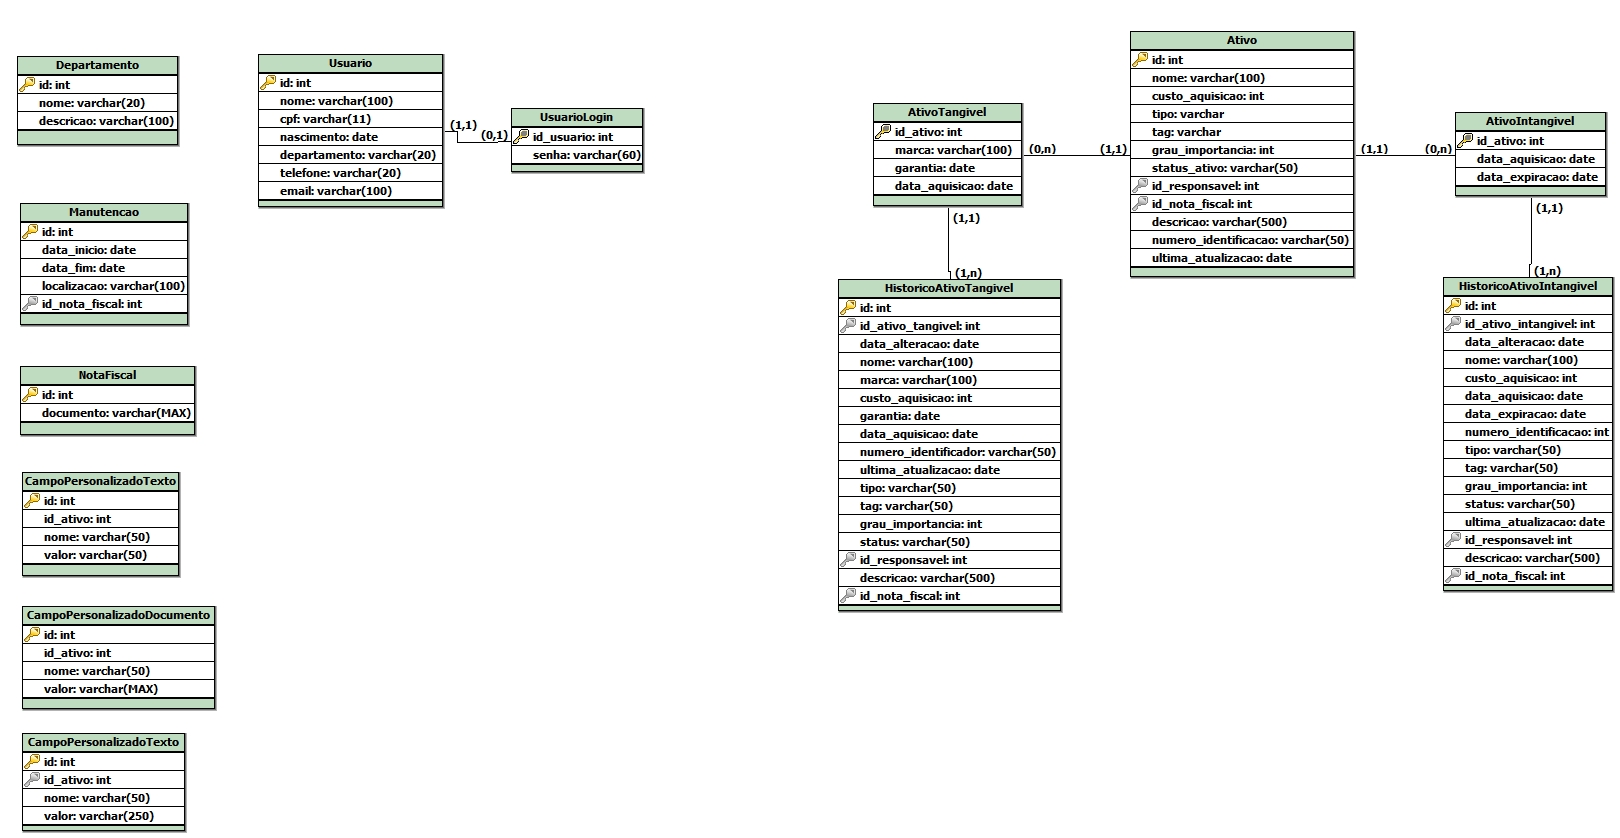
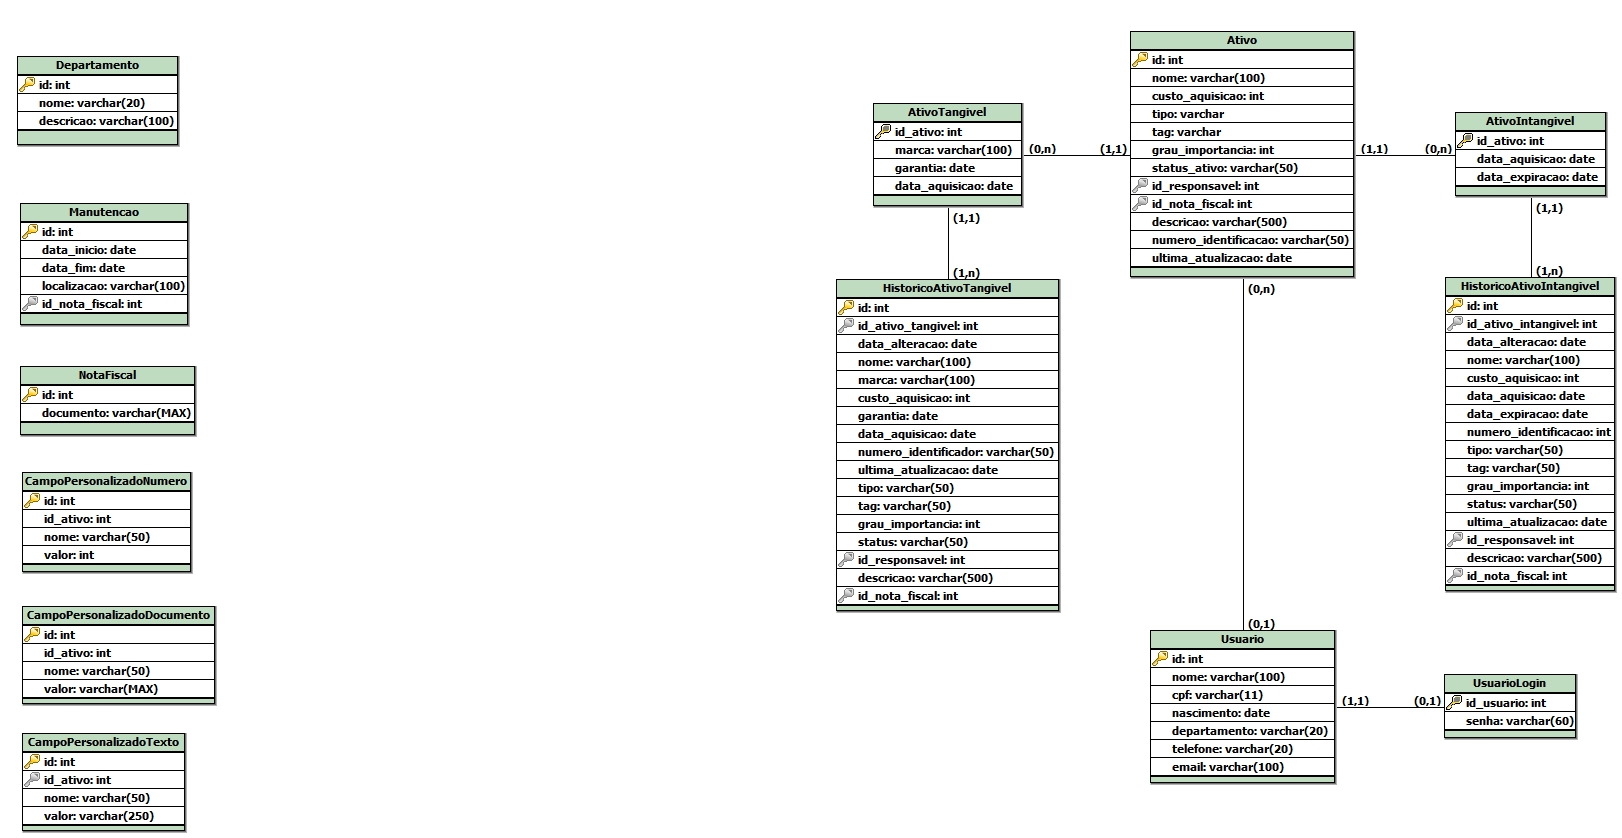
Documentação

diff --git a/README.md b/README.md
@@ -5,4 +5,51 @@ Referente ao Banco de Dados da API do terceiro semestre da FATEC
 
 * `./modelo` - Arquivos do modelo de dados
 * `./sql` - Arquivos .SQL com o código do banco
+    * `/functions` - Arquivos .SQL com as funções do banco
+    * `/procedures` - Arquivos .SQL com as procedures do banco
     * `/tables` - Arquivos .SQL para a criação das tabelas
+    * `/triggers` - Arquivos .SQL com os triggers do banco
+
+# Dicionário de Dados
+
+<details>
+<summary>Ativo</summary>
+
+| Colunas | Tipo de dados | Comprimento | Restrições | Valor padrão | Descrição |
+|:-:|:-:|:-:|:-:|:-:|:-:|
+| id | INT | Default | PK, NOT NULL | auto_increment | Número de identificação do ativo |
+| nome | VARCHAR | 100 | NOT NULL | N/A | Nome do ativo |
+| custo_aquisicao | INT | Default | N/A | N/A | Custo da aquisição do ativo |
+| tipo | VARCHAR | 20 | NOT NULL | N/A | Tipo do ativo |
+| tag | VARCHAR | 20 | NOT NULL | N/A | Tag do ativo |
+| grau_importancia | INT | Default | N/A | N/A | Grau de importância do ativo |
+| status_ativo | VARCHAR | 50 | N/A | N/A | Status do ativo |
+| id_responsavel | INT | Default | FK | N/A | Id do usuário responsável pelo ativo |
+| id_nota_fiscal | INT | Default | FK | N/A | Id da nota fiscal do ativo |
+| descricao | VARCHAR | 500 | N/A | N/A | Descrição do ativo |
+| ultima_atualizacao | DATE | Default | N/A | N/A | Última data em que o ativo foi atualizado |
+
+</details>
+
+<details>
+<summary>AtivoTangivel</summary>
+
+| Colunas | Tipo de dados | Comprimento | Restrições | Valor padrão | Descrição |
+|:-:|:-:|:-:|:-:|:-:|:-:|
+| id_ativo | INT | Default | PK, FK, NOT NULL | N/A | Número de identificação do ativo |
+| marca | VARCHAR | 100 | N/A | N/A | Marca do ativo |
+| garantia | DATE | Default | N/A | N/A | Data de expiração da garantia do ativo |
+| data_aquisicao | DATE | Default | N/A | N/A | Data de aquisição do ativo |
+
+</details>
+
+<details>
+<summary>AtivoIntangivel</summary>
+
+| Colunas | Tipo de dados | Comprimento | Restrições | Valor padrão | Descrição |
+|:-:|:-:|:-:|:-:|:-:|:-:|
+| id_ativo | INT | Default | PK, FK, NOT NULL | N/A | Número de identificação do ativo |
+| data_aquisicao | DATE | Default | N/A | N/A | Data de aquisição do ativo |
+| data_expiracao | DATE | Default | N/A | N/A | Data de expiração do ativo |
+
+</details>
